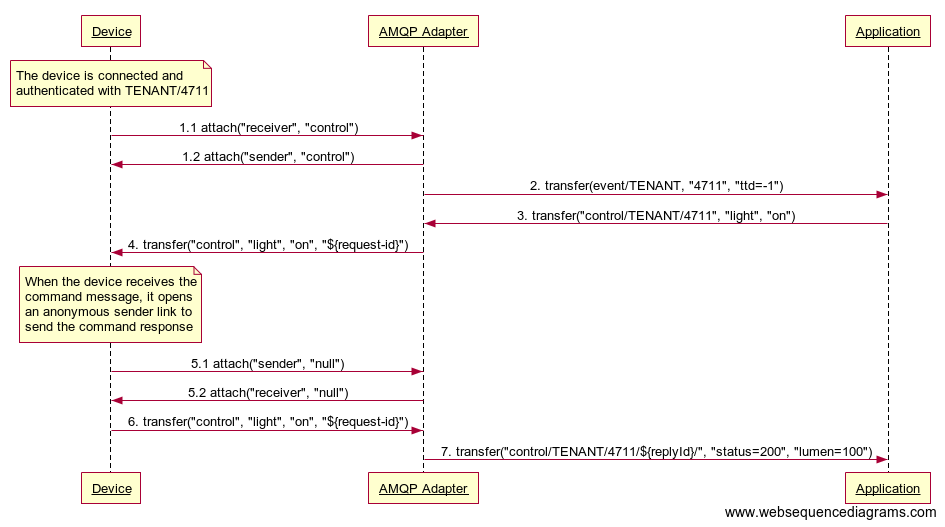
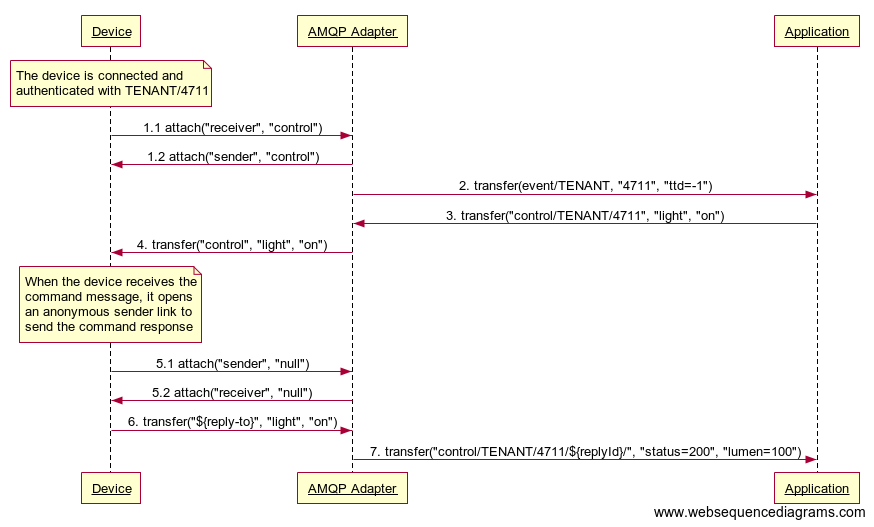
[#784] Drop request-id property and use correlation-id to correlate command response with request.

diff --git a/site/content/concepts/command-and-control.md b/site/content/concepts/command-and-control.md
@@ -74,31 +74,18 @@ When a device connected to the AMQP adapter wants to receive commands from the a
 * `control` for authenticated devices
 * `control/${tenant}/${device-id}` for unauthenticated devices
 
-Once the receiver link is opened, the AMQP adapter sends command messages to devices through the link. The `subject` property of the message contains the actual command to be executed on the device while the `request_id` application property contains the identifier used to correlate the command request with the response.
+Once the receiver link is opened, the AMQP adapter sends command messages to devices through the link. The `subject` property of the request message contains the actual command to be executed on the device.
 
-Devices can publish command response messages by opening an **anonymous** sender link (similar to how `telemetry` and `event` messages are published) using the following message address:
-
-* `control` (authenticated device)
-* `control/${tenant}/${device-id}` (unauthenticated device)
-
-The device should set the `request_id` application property and the `status` application property on the command response message sent over the sender link. The `status` application property should contain the outcome of executing the command on the device.
-
-**Command Request Message Properties**
-
-The following table shows the properties that are set on a command request message by the AMQP adapter.
-
-| Name            | Mandatory       | Location                 | Type        | Description |
-| :-------------- | :-------------: | :----------------------- | :---------- | :---------- |
-| *subject*       | yes             | *properties*             | *string*    | Contains the command name to be executed on a device. |
-| *request_id*    | yes             | *application-properties* | *string*    | The request identifier used to correlate the command request with the response. |
+If the command request is a *one-way command*, then the device need not publish a command response message. However, if the application expects a response, then devices should publish a response back to the application. If an **anonymous** sender link is already opened by the device (e.g for publishing `telemetry` or `events`), then the device can reuse that link to publish the command response message. Otherwise, the device should publish the response by opening an **anonymous** sender link. The device should set the message address, status and correlation-id properties of the response accordingly. Consult the table below for a list of properties that a device must set on a command response message.
 
 **Command Response Message Properties**
 
-The following table shows the properties that are set on a command response message by a client device.
+If the application expects a response (i.e the `reply-to` property is set), then the device should set the following properties on a command response message.
 
-| Name            | Mandatory       | Location                 | Type        | Description |
-| :-------------- | :-------------: | :----------------------- | :---------- | :---------- |
-| *status*        | yes             | *application-properties* | *string*    | The status code indicating the outcome of processing the command by the device. MUST be set by the device after executing the command. |
-| *request_id*    | yes             | *application-properties* | *string*    | The request identifier used to correlate the command request with the response. This identifier can be obtained from the properties of the command request message. |
+| Name              | Mandatory       | Location                 | Type        | Description |
+| :--------------   | :-------------: | :----------------------- | :---------- | :---------- |
+| *to*              | yes             | *properties*             | *string*    | MUST contain the address to which the command response should be published to, which is the value of the reply-to property of the command request message.|
+| *correlation-id*  | yes             | *properties*             | *string*    | MUST contain the identifier used to correlate the response with the original request. If the original request contains a correlation-id, then that value is used as the correlation-id for the response. Otherwise, the value of the message-id property is used instead. |
+| *status*          | yes             | *application-properties* | *string*    | The status code indicating the outcome of processing the command by the device. MUST be set by the device after executing the command. |
 
 ![Command & Control over AMQP Adapter](../command_control_concept_amqp.png) 
